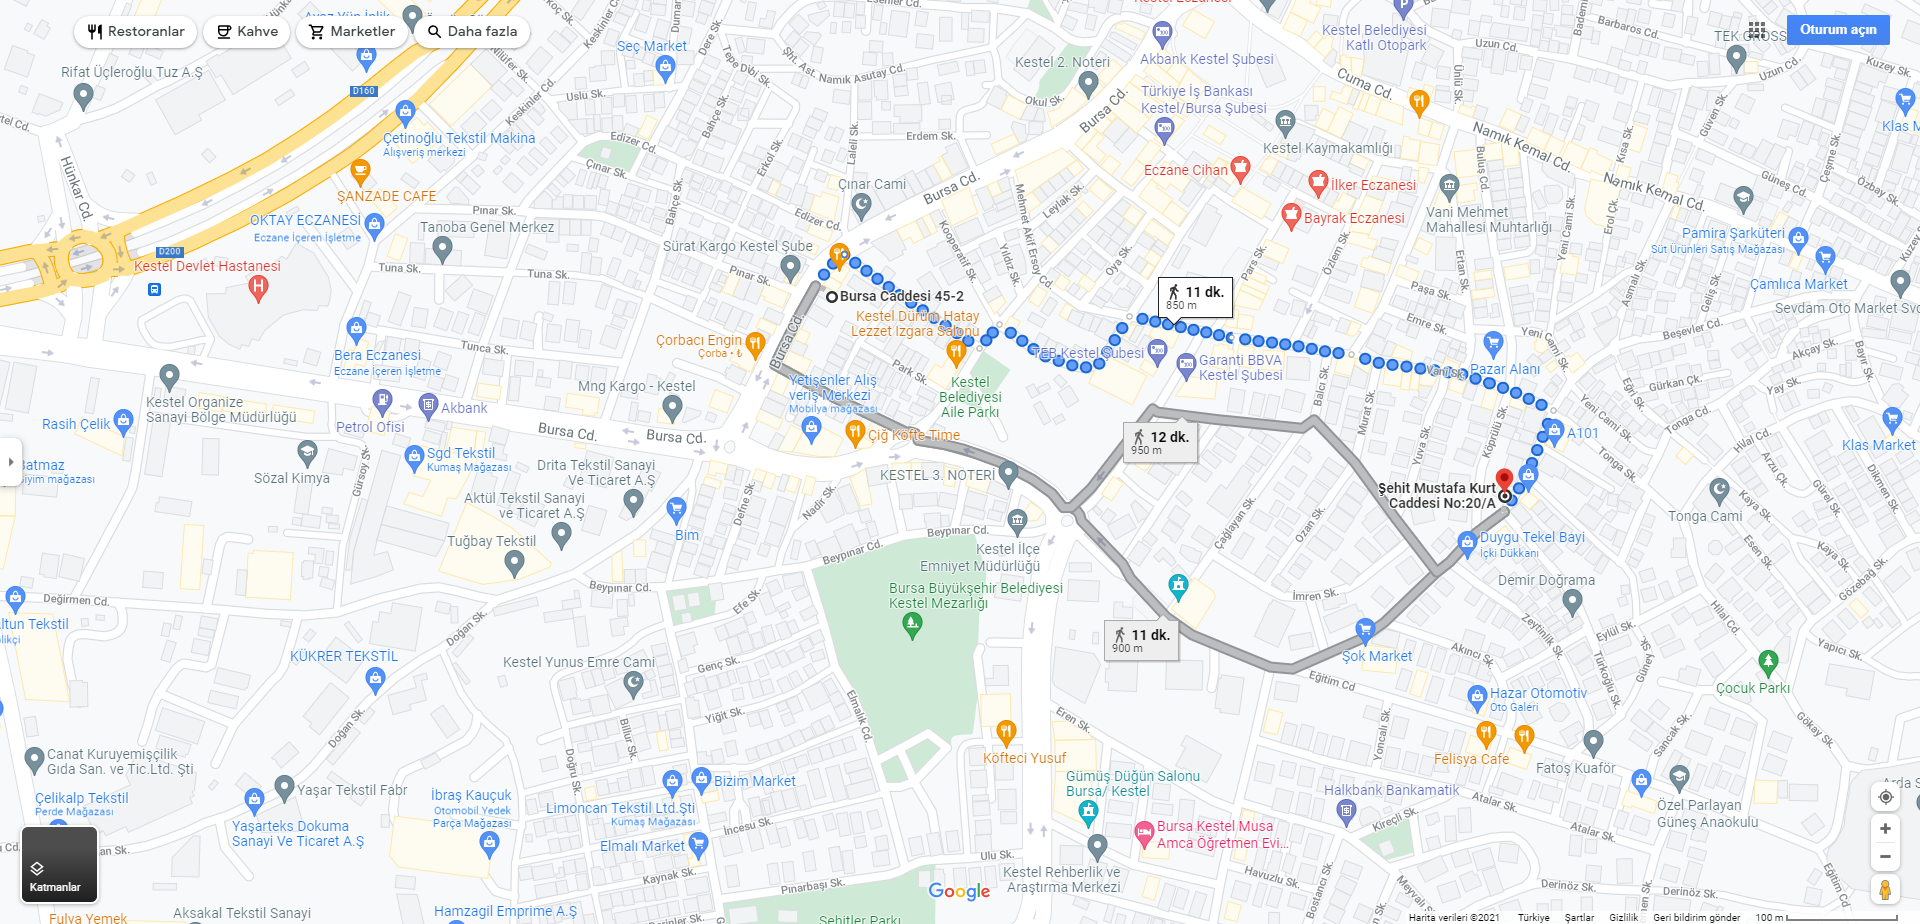
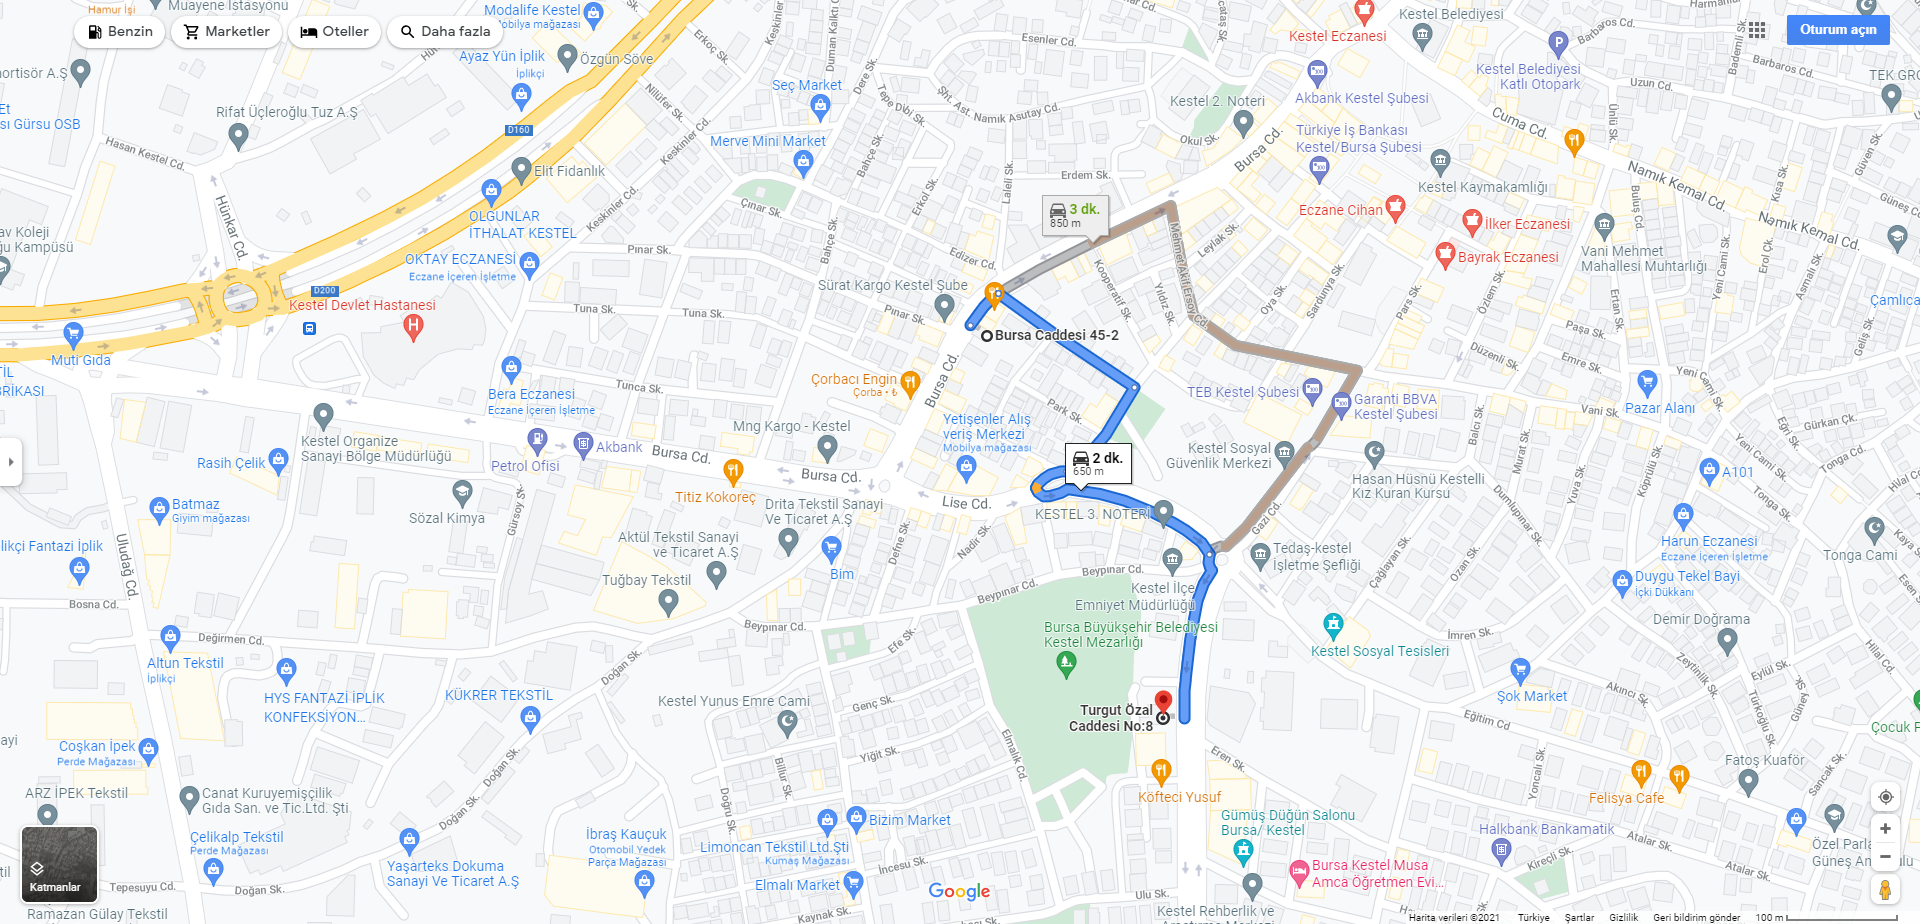
Tekrar Düzenleme

Changed region(s): [[0.0, 0.0, 1.0, 1.0], [0.0, 0.4848, 0.0312, 0.5455], [0.9688, 0.0, 1.0, 0.0303]]

diff --git a/arayuz.py b/arayuz.py
@@ -1,7 +1,7 @@
 #!/usr/bin/env python3
 from tkinter import Tk, Text, BOTH, W, N, E, S, PhotoImage
 import tkinter as tk
-from tkinter.constants import END, INSERT
+from tkinter.constants import ANCHOR, END, INSERT
 from tkinter.ttk import Frame, Label
 from PIL import Image, ImageTk
 from nob_ecz_bilgi_getir import wet
@@ -10,6 +10,7 @@ class Example(Frame):
     def __init__(self):
         super().__init__()
         self.initUI()
+
     def initUI(self):
         self.master.title("Şule Eczanesi")
         self.pack(fill=BOTH, expand=True)
@@ -17,9 +18,14 @@ class Example(Frame):
         self.columnconfigure(3, pad=7)
         self.rowconfigure(3, weight=1)
         self.rowconfigure(5, pad=7)
+        # NÖBETÇİ ECZANELER (BAŞLIK)
 
-        lbl = Label(self, text="NÖBETÇİ ECZANELER",font="-family {Arial bold} -size 64",foreground="blue")
-        lbl.grid(row=0,column=1, pady=4, padx=5,columnspan=2)
+        self.baslikframe=Frame(self)
+        self.baslikframe.grid(row=0,column=1, pady=4, padx=5,columnspan=2)
+        self.label = Label(self.baslikframe, text="NÖBETÇİ ECZANELER",font="-family {Arial bold} -size 100",foreground="red",background="#d9d9d9")
+        self.label.pack(side="top", fill="both", expand=True)
+        self.flash()
+
         
         # Animasyonlu Eczane Logosu
         frameCnt=12
@@ -44,17 +50,18 @@ class Example(Frame):
             # update the image of the label
             l.image = ImageTk.PhotoImage(image)
             l.config(image=l.image)
-        bgimg = Image.open(".\\resim\googlegunluk.jpeg")
+        bgimg = Image.open(".\\resim\googlegunluk.png")
         l=tk.Label(self.frameGoogle)
         l.place(x=-20,y=-42,relwidth=1.05,relheight=1.05)
         l.bind('<Configure>', on_resize) # on_resize will be executed whenever label l is resized
 
 
-        # Nönetçi Eczane Yazısı
+        # Nönetçi Olan Eczane Yazı
         self.frameisim=Frame(self)
         self.frameisim.grid(row=1, column=0,pady=4,padx=4)
         abtn = Text(self.frameisim,width=30,height=3, font="-family {Arial bold} -size 16")
         abtn.insert(INSERT,wet.nob_olan_ecz)
+        #abtn.insert(INSERT,wet.nob_olan_ecz)
         abtn.pack(fill="both",expand=True)
         abtn.configure(background="#d9d9d9")
         abtn.tag_configure("center",justify='center')
@@ -65,27 +72,25 @@ class Example(Frame):
         self.frame=Frame(self)
         self.frame.grid(row=2, column=0, pady=4,padx=4)
         self.Label2 = Text(self.frame,width=32,font="-family {Arial bold} -size 14")
-        self.Label2.pack(side="left",fill="both",expand=True)
-        self.Label2.insert(INSERT,"\U0001F3E0")
-        #self.Label2.insert(END,"VANİ MEHMET MAH. ŞEHİT MUSTAFA KURT CAD. NO:20/A"+"\n")
-        self.Label2.insert(END,wet.nob_olan_ecz_adres+wet.ek_adres_bilgisi+"\n")
+        self.Label2.pack(fill="x",expand=True,anchor=S)
         self.Label2.configure(background="#d9d9d9")
         self.Label2.configure(foreground="#000000")
-        self.Label2.configure(highlightbackground="#f0f0f0f0f0f0")
-        self.Label2.tag_add("ilk","1.0","1.1")
-        self.Label2.tag_config("ilk",background="white",foreground="red")
+        self.Label2.configure(highlightbackground="#f0f0f0f0f0f0") 
+        self.Label2.tag_config("Simge",background="white",foreground="red",justify="left") #Simgeleri boyamak için
+        self.Label2.insert(INSERT,"\U0001F3E0","Simge")
+        self.Label2.insert(END,wet.nob_olan_ecz_adres.title() +"\n"+wet.ek_adres_bilgisi.title()+"\n\n")
+        #self.Label2.insert(END," VANİ Ali MEHMET MAH. ŞEHİT MUSTAFA KURT CAD., NO:20/A".title() +"\n"+"wet.ek_adres_bilgisi.title()"+"\n\n")
+
 
         # Telefon numarası
-        self.Label2.insert(END,"\n\U0000260E")
-        #self.Label2.insert(END,"0224 373 07 77"+"\n")  
-        self.Label2.insert(END,wet.nob_olan_ecz_telefon+"\n")       
-        self.Label2.tag_add("ilk","3.0","3.1")
+        self.Label2.insert(END,"\U0000260E","Simge")
+        #self.Label2.insert(END," 0224 373 07 77"+"\n\n")  
+        self.Label2.insert(END," "+wet.nob_olan_ecz_telefon+"\n\n")   
 
         # Nöbet tarihleri
-        self.Label2.insert(END,"\n\U0001F551")
-        #self.Label2.insert(END,"04.11.2021 18:00 / 05.11.2021 08:30 arası nöbetçidir."+"\n\n\n\n")    
-        self.Label2.insert(END,wet.nob_olan_ecz_nobettarihleri+"\n\n\n\n")     
-        self.Label2.tag_add("ilk","5.0","5.1")
+        self.Label2.insert(END,"\U0001F551","Simge")
+        #self.Label2.insert(END," 04.11.2021 18:00 / 05.11.2021 08:30 arası nöbetçidir."+"\n\n\n\n")    
+        self.Label2.insert(END," "+wet.nob_olan_ecz_nobettarihleri+"\n"+"Tarihleri Arasında Nöbetçidir..."+"\n\n\n") 
 
         # Qr Codu ekleme
         load = Image.open(".\\resim\QrCode.png")
@@ -94,11 +99,19 @@ class Example(Frame):
         self.Label2.image_create(END,image=self.imageQr)
         self.Label2.tag_configure("center",justify='center')
         self.Label2.tag_add("center",6.0,"end")
+        
+
+    def flash(self):
+        bg = self.label.cget("background")
+        fg = self.label.cget("foreground")
+        self.label.configure(background=fg, foreground=bg)
+        self.after(1000, self.flash)
 
 def main():
     root = Tk()
     root.geometry("800x600+300+300")
     app = Example()
+    root.state('zoomed')    #root.attributes('-fullscreen', True) ; Satırı ile tam ekran da yapılabilir.
     root.mainloop()
 if __name__ == '__main__':
     main()

diff --git a/nob_ecz_bilgi_getir.py b/nob_ecz_bilgi_getir.py
@@ -27,6 +27,7 @@ class nobet:
         self.nob_olan_ecz=self.browser.find_element_by_xpath("/html/body/div[1]/div/div[2]/div/div[3]/div/div/div[2]/h4").text
         self.nob_olan_ecz_bilgi=(self.browser.find_element_by_xpath("/html/body/div[1]/div/div[2]/div/div[3]/div/div/div[2]/p")).text.split("\n")
 
+        
         self.nob_olan_ecz_adres = self.nob_olan_ecz_bilgi[0]
         self.ek_adres_bilgisi = ""
         i = 1
@@ -37,7 +38,7 @@ class nobet:
         except:
             self.nob_olan_ecz_telefon = self.nob_olan_ecz_bilgi[i]
 
-        self.nob_olan_ecz_nobettarihleri = self.nob_olan_ecz_bilgi[-1]
+        self.nob_olan_ecz_nobettarihleri = self.nob_olan_ecz_bilgi[-1].partition("arası nöbetçidir.")[0]
 
         #self.nob_olan_ecz_googlelink=self.browser.find_element_by_css_selector("body > div.wrapper > div > div:nth-child(2) > div > div:nth-child(4) > div > div > div.col-md-10 > p > a:nth-child(7)").get_attribute('href')
         time.sleep(1)
@@ -55,13 +56,15 @@ class nobet:
         baslangic_noktasi.send_keys("Ahmet Vefik Paşa Mahallesi, Bursa Caddesi, No:45/2-A, Kestel/Bursa\n")
       
 
+        self.browser.find_element_by_xpath("//*[@id='omnibox-directions']/div/div[2]/div/div/div[1]/div[2]/button").click() # Adres tab'ında Araba buttonuna tıkla
         self.browser.find_element_by_xpath("//*[@id='pane']/div/div[3]/button").click() # Adres tab'ını kapat
         time.sleep(5) # Ekran oturana kadar 3 sn bekle
-        self.browser.save_screenshot(".\\resim\googlegunluk.jpeg")
+        self.browser.save_screenshot(".\\resim\googlegunluk.png")
         barkod_Icin_Url=self.browser.current_url
         imgg=qrcode.make(barkod_Icin_Url)
         type(imgg)
         imgg.save(".\\resim\QrCode.png")
+        self.browser.close()
 
 wet=nobet()
 wet.nob_ecz_bul()
